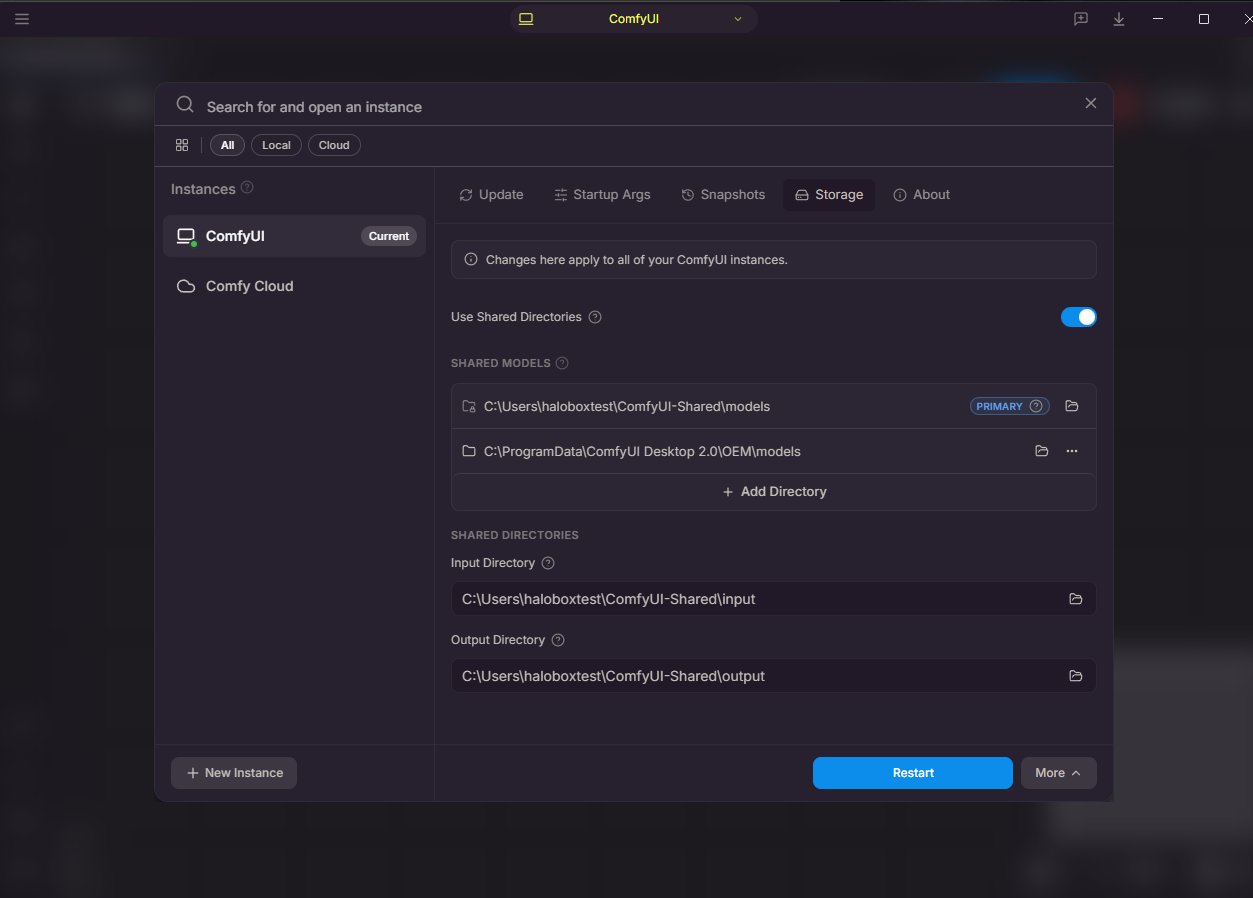
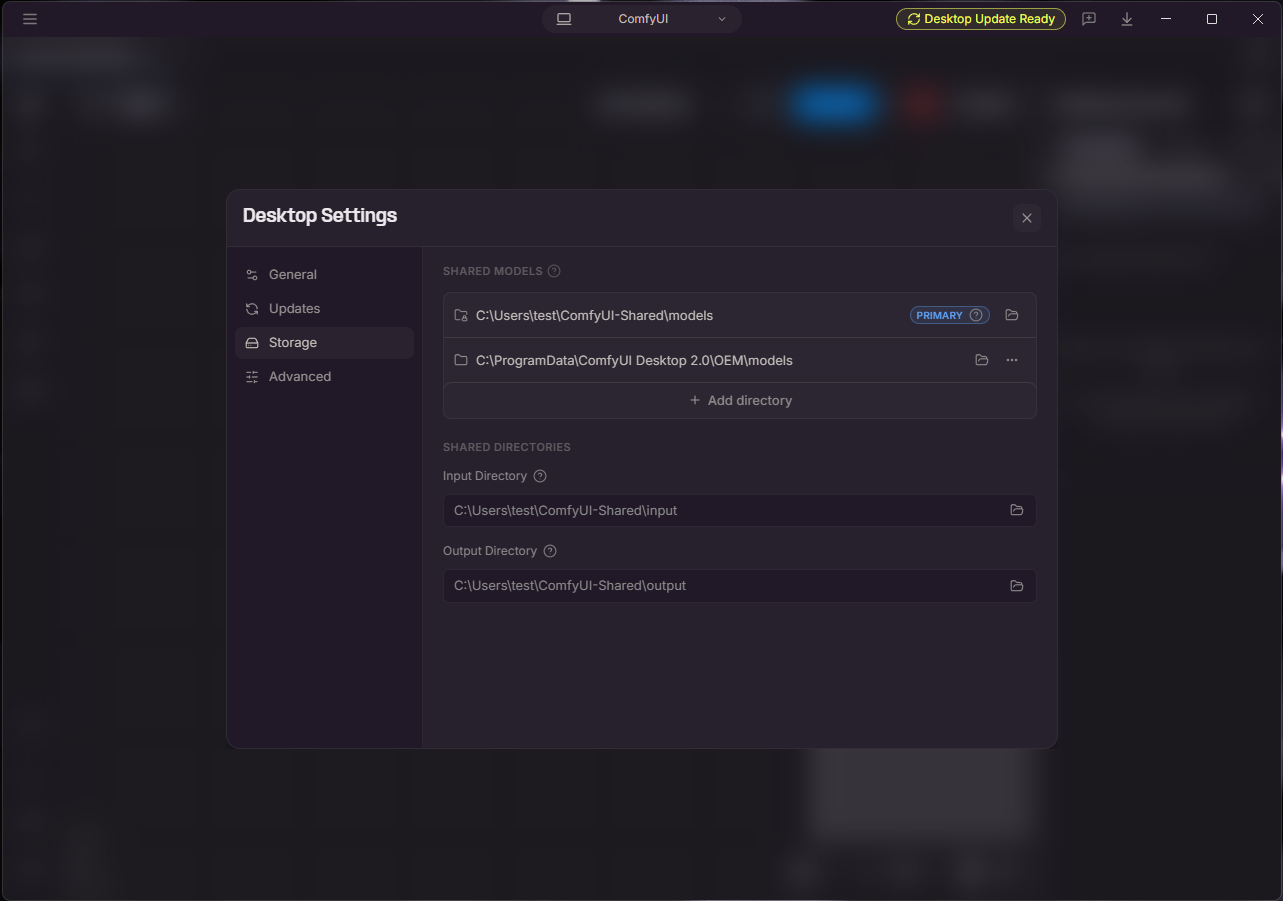
fixes to comfyui and lmstudio images (#429)

diff --git a/playbooks/dependencies/lmstudio.md b/playbooks/dependencies/lmstudio.md
@@ -10,6 +10,12 @@ SPDX-License-Identifier: MIT
 
 <!-- @device:halo_box -->
 LM Studio can be installed from the **AMD Ryzen™ AI Developer Center**. Go to the **Updates** tab and install LM Studio if it is not already present.
+
+To allow LM Studio to see the pre-installed models, navigate to Settings > General > Models Directory. Then change the path to `C:\Users\Public\models`
+
+<p align="center">
+  <img src="/api/dependencies/assets/lmstudio_windows_directory.png" alt="Adding pre-installed models to LM Studio" width="600"/>
+</p>
 <!-- @device:end -->
 
 <!-- @device:halo,stx,krk,rx7900xt,rx9070xt -->
@@ -34,6 +40,14 @@ lms --help
 4. run `chmod +x LM-Studio-*.AppImage`  
 5. run `./LM-Studio-*.AppImage`  
 > Tip: After installing, launch LM Studio once to initialize the CLI (`lms`).
+
+<!-- @device:halo_box -->
+To allow LM Studio to see the pre-installed models, navigate to Settings > General > Models Directory. Then change the path to `/var/cache/models`.
+
+<p align="center">
+  <img src="/api/dependencies/assets/lmstudio_linux_directory.png" alt="Adding pre-installed models to LM Studio" width="600"/>
+</p>
+<!-- @device:end -->s
 
 <!-- @test:id=lmstudio-cli-linux timeout=60 hidden=True -->
 ```bash

diff --git a/playbooks/core/lmstudio-rocm-llms/README.md b/playbooks/core/lmstudio-rocm-llms/README.md
@@ -64,7 +64,7 @@ Learn how to start chatting with a ChatGPT-grade LLM completely locally.
 2. Press `Ctrl + L` to open the Model Loader, select `Manually choose model load parameters`, and click on `${model_name}`
 3. Make sure "show advanced settings" is checked.  
 4. Change `Context Length` as desired. Higher context length means more model memory, but more system memory used. Recommended for this playbook is 4096.
-5. Make sure `GPU Offload` is set to maximum and `Flash Attention` is On
+5. Make sure `GPU Offload` is set to maximum and `Flash Attention` is On (Cache Quantizations can remain off)
 6. Check `Remember settings` and click on `Load Model`.
 7. If not in the chat window, press `Ctrl + 1` or click on the 👾 button on the top left of the screen.
 8. Send a message and start interacting with the model!